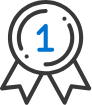
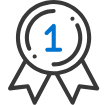
Some changes to the layout.
Also added the newly sized icon set for the homepage.

diff --git a/src/pages/index.js b/src/pages/index.js
@@ -24,9 +24,11 @@ export default ({ data }) => (
     </div>*/}
     <div class="container">
       <div class="row">
-        <div class="inner-title col-xl-12">
-          <h3 class="strapline">Performance, Results, Excellence</h3>
-          <h2>We Care About Your Success</h2>
+        <div class="col-xl-12">
+          <div class="inner-title">
+            <h3 class="strapline">Performance, Results, Excellence</h3>
+            <h2>We Care About Your Success</h2>
+          </div>
         </div> 
         <div class="col-xl-3">
           <div class="panel">
@@ -66,58 +68,70 @@ export default ({ data }) => (
         </div>
       </div>
       <div class="row">
-        <div class="content-block col-xl-12">
-          <div class="inner-title col-xl-12">
-            <h3 class="strapline">Built for success</h3>
-            <h2>All-in-One <span class="bold">Marketing Dashboard</span></h2>
+        <div class="col-xl-12">
+          <div class="content-block">
+            <div class="row">
+              <div class="col-xl-12">
+                <div class="inner-title">
+                  <h3 class="strapline">Built for success</h3>
+                  <h2>All-in-One <span class="bold">Marketing Dashboard</span></h2>
+                </div>
+              </div>
+              <div class="col-xl-12">
+                <p class="accented">
+                  Our robust, comprehensive marketing solutions helps keep your online digital marketing presence ahead of competition. 
+                  We provide tools and analysis to improve new patient acquisition with transparent reporting to measure our results.
+                </p>
+              </div>
+            </div>
           </div>
         </div>
       </div>
       <div class="row">
-        <p class="accented">
-          Our robust, comprehensive marketing solutions helps keep your online digital marketing presence ahead of competition. 
-          We provide tools and analysis to improve new patient acquisition with transparent reporting to measure our results.
-        </p>
-      </div>
-      <div class="row">
-        <div class="full-bleed marketing-dashboard-background">
-          <img src={homepageMobileMockup} alt="" />
+        <div class="col-xl-12">
+          <div class="full-bleed marketing-dashboard-background">
+            <img src={homepageMobileMockup} alt="" />
+          </div>
         </div>
       </div>
       <div class="row">
-        <div class="inner-title col-xl-12">
-          <h3 class="strapline">Setting the foundation for success</h3>
-          <h2>Why Choose <span class="bold">Doctor Genius</span></h2>
-        </div> 
-      </div>
-      <div class="row">
-        <div class="col-xl-6 ">
+        <div class="col-xl-12">
+          <div class="inner-title">
+            <h3 class="strapline">Setting the foundation for success</h3>
+            <h2>Why Choose <span class="bold">Doctor Genius</span></h2>
+          </div>
+        </div>
+        <div class="col-xl-6">
           <img src={newPatientAcquisitions} alt="" />
         </div>
         <div class="col-xl-6">
-          <div class="inner-title col-xl-12">
-            <h2>Why is Doctor Genius #1 in new patient acquisitions?</h2>
-            <p class="accented">When you join the Doctor Genius Family, we are now partnered. We have a direct interest in your business doing well.</p>
+          <div class="row">
+            <div class="col-xl-12">
+              <div class="inner-title">
+                <h2>Why is Doctor Genius #1 in new patient acquisitions?</h2>
+                <p class="accented">When you join the Doctor Genius Family, we are now partnered. We have a direct interest in your business doing well.</p>
+              </div>
+            </div>
           </div>
         </div>
       </div>
       <div class="row">
         <div class="col-xl-6">
-          <div class="inner-title col-xl-12">
+          <div class="inner-title">
             <h2>What makes Doctor Genius different?</h2>
             <p class="accented">We are not a cookie cutter type program. We are a performance based program and take pride in your success.</p>
           </div>
         </div>
-        <div class="col-xl-6 ">
+        <div class="col-xl-6">
           <img src={dgDifferent} alt="" />
         </div>
       </div>
       <div class="row">
-        <div class="col-xl-6 ">
+        <div class="col-xl-6">
           <img src={dgClientSatisfaction} alt="" />
         </div>
         <div class="col-xl-6">
-          <div class="inner-title col-xl-12">
+          <div class="inner-title">
             <h2>How would you rate Doctor Genius client satisfaction?</h2>
             <p class="accented">Don't take our word for it, see what our clients say about us 100+ 5 Stars.  Check our <a href="/reviews">reviews</a></p>
           </div>
@@ -125,15 +139,17 @@ export default ({ data }) => (
       </div>
       <div class="row">
           <div class="col-xl-6">
-            <div class="inner-title col-xl-12">
+            <div class="inner-title">
               <h2>Start your <span class="bold">success</span> with Doctor Genius today!</h2>
               <p class="accented">The Genius platform makes every part of your company process more efficient. 
               Our support team is very excited to help you and get your company on the right path of success.</p>
             </div>
           </div>
-          <div class="col-xl-6 d-flex justify-content-center align-items-center">
-            <div class="button flat">
-              <a>Request Demo <i></i></a>
+          <div class="col-xl-6">
+            <div class="d-flex justify-content-center align-items-center">
+              <div class="button flat">
+                <a>Request Demo <i></i></a>
+              </div>
             </div>
           </div>
       </div>

diff --git a/src/components/default-page-layout.css b/src/components/default-page-layout.css
@@ -1,8 +1,8 @@
 html { font-size: 16px; }
 
-.inner-title { font-size: 1rem; text-align: center; }
-.inner-title h3.strapline { font-size: 1em; color: #0074CF; }
-.inner-title h2 { font-size: 1.8em; }
+.inner-title { font-size: 1rem; text-align: center; padding-bottom: 24px; margin-bottom: 52px; }
+.inner-title h3.strapline { font-size: 1.25em; color: #0074CF; }
+.inner-title h2 { font-size: 2.625em; }
 .panel .inner-title h2 { color: #0074CF; }
 .panel { text-align: center; }
 span.bold { font-weight: 800; }
@@ -16,3 +16,5 @@ p.accented:before { content:''; width:4px; height:40px; background:#0074CF; posi
 .button.flat { border-radius: 0.1rem; }
 .button.rounded { border-radius: 1rem; }
 .button a {  }
+.col-xl-6 > div { height: 100%; }
+
